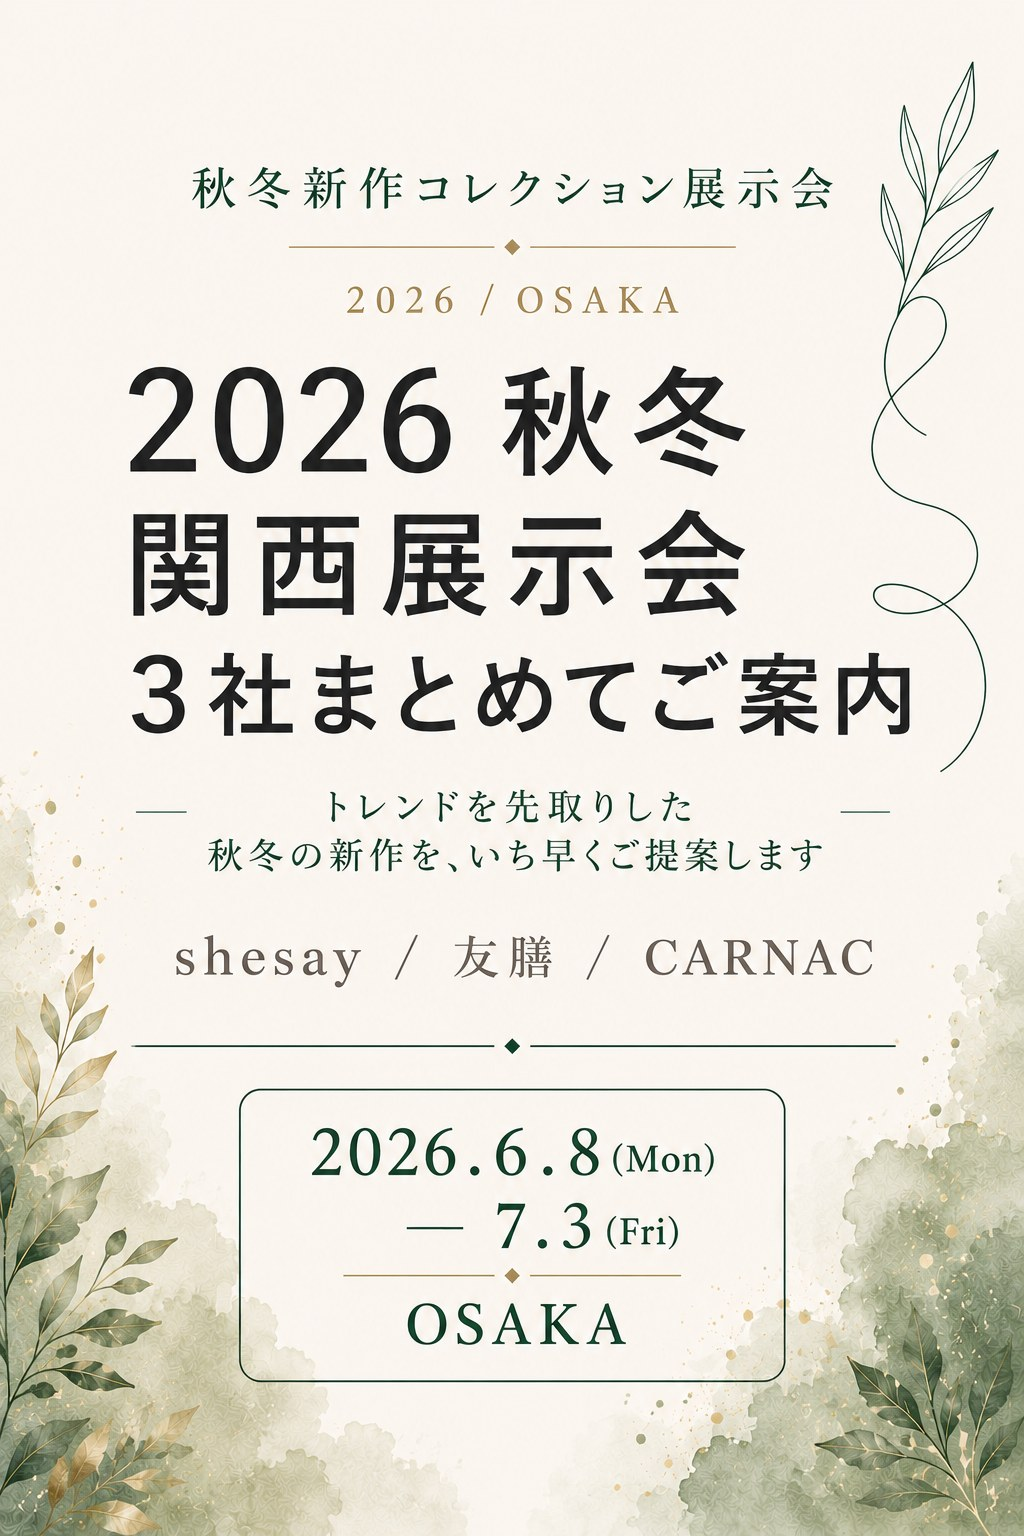
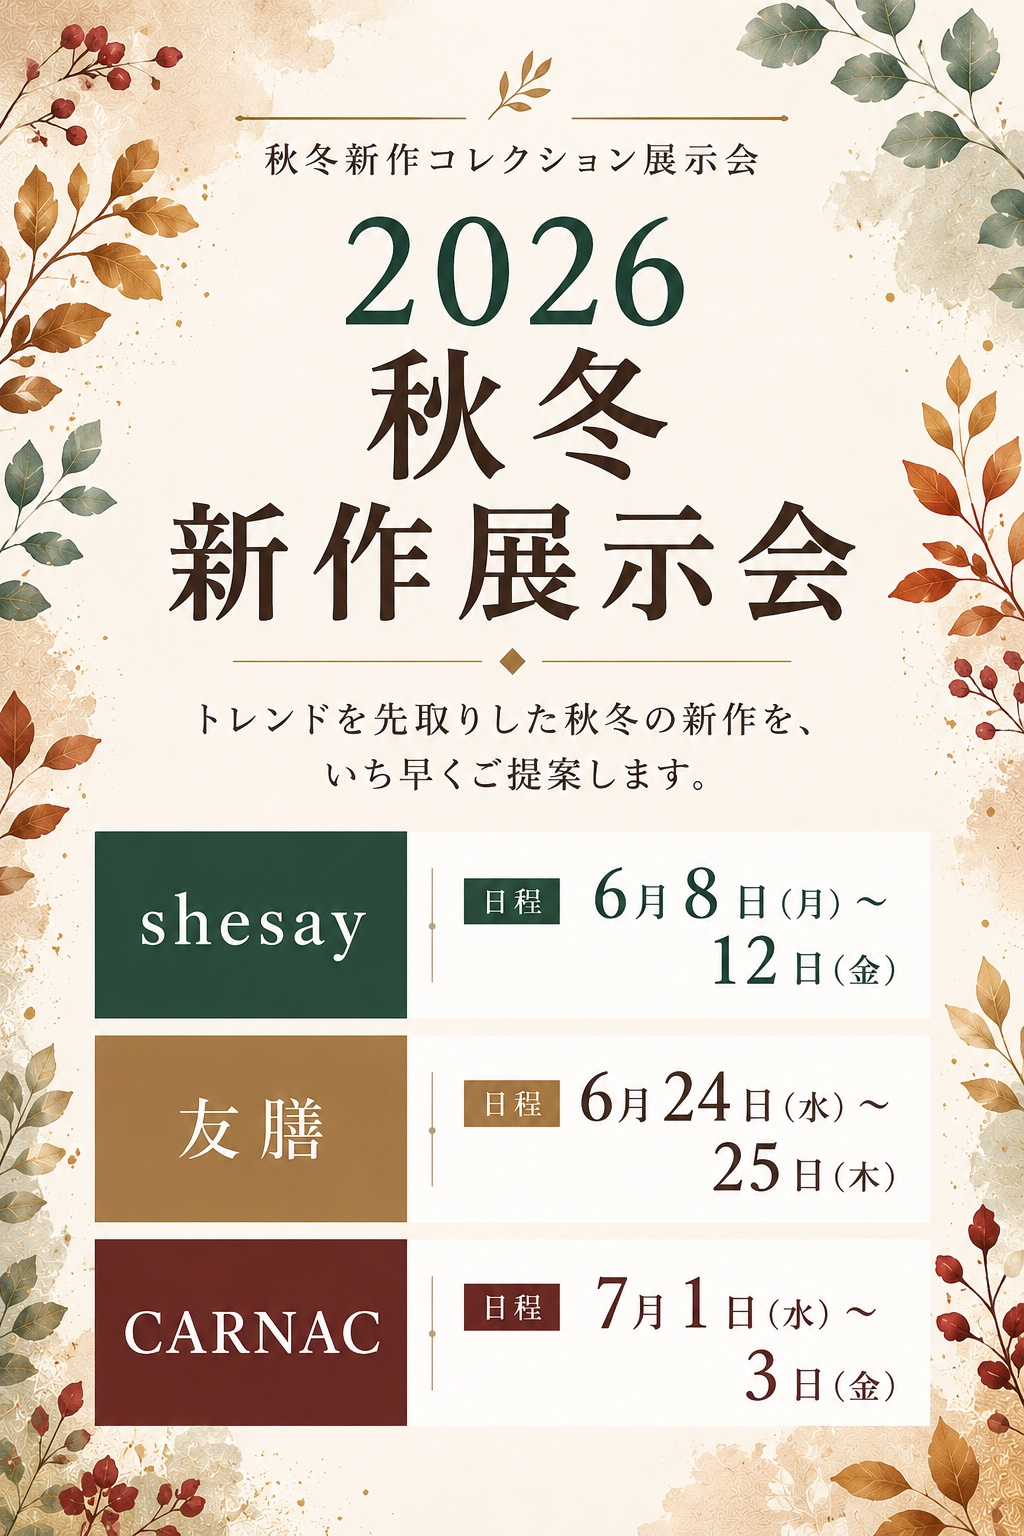
ヒーロー画像差し替え + 「関西展示会」→「大阪会場」一括変更 + recv-badge アニメ強化
- hero.jpg: 新版（縦長クリーム調・3 社日程表 1024x1536）
- 文中の「関西展示会」表記をすべて「大阪会場」に統一（タイトル/alt/リード/ナビカード/各社見出し）
- recv-badge: scale + 外側リング pulse 追加（控えめだが視認性向上、prefers-reduced-motion 対応）

diff --git a/index.html b/index.html
@@ -3,7 +3,7 @@
 <head>
 <meta charset="UTF-8">
 <meta name="viewport" content="width=device-width, initial-scale=1.0">
-<title>2026 秋冬 関西展示会 3 社まとめてご案内（shesay／友膳／CARNAC）- 神戸リボン</title>
+<title>2026 秋冬 新作展示会 大阪会場 3 社まとめてご案内（shesay／友膳／CARNAC）- 神戸リボン</title>
 <style>
   body {
     margin: 0;
@@ -257,23 +257,34 @@
     font-size: 14px;
     line-height: 1.7;
   }
-  /* 「合わせてご覧ください」カード内の「申込まだ間に合う」バッジ */
+  /* 「合わせてご覧ください」カード内の「申込まだ間に合う」バッジ
+     控えめだが視線を捉える: 1) ふんわり拡大縮小 2) 光が外へ広がるリング 3) 微小グラデーション */
   .recv-badge {
     display: inline-block;
     margin: 4px 0 2px;
-    padding: 4px 10px;
-    background: #e6a700;
+    padding: 5px 12px;
+    background: linear-gradient(135deg, #e6a700 0%, #f0b220 100%);
     color: #fff;
     font-size: 12px;
     font-weight: bold;
     letter-spacing: 0.05em;
     border-radius: 3px;
     box-shadow: 0 1px 3px rgba(230,167,0,0.4);
-    animation: recv-pulse 2s ease-in-out infinite;
+    transform-origin: center;
+    animation: recv-pulse 2.4s ease-in-out infinite;
   }
   @keyframes recv-pulse {
-    0%, 100% { box-shadow: 0 1px 3px rgba(230,167,0,0.4); }
-    50%      { box-shadow: 0 2px 10px rgba(230,167,0,0.7); }
+    0%, 100% {
+      transform: scale(1);
+      box-shadow: 0 1px 3px rgba(230,167,0,0.4), 0 0 0 0 rgba(230,167,0,0.45);
+    }
+    50% {
+      transform: scale(1.035);
+      box-shadow: 0 2px 8px rgba(230,167,0,0.55), 0 0 0 8px rgba(230,167,0,0);
+    }
+  }
+  @media (prefers-reduced-motion: reduce) {
+    .recv-badge { animation: none; }
   }
 </style>
 </head>
@@ -282,12 +293,12 @@
 
 <!-- ===== ヘッダー（画像／縦長） ===== -->
 <div style="margin:0.5em 0 1.5em; text-align:center;">
-  <img src="hero.jpg" alt="秋冬新作コレクション展示会 2026 / OSAKA  2026 秋冬 関西展示会 3 社まとめてご案内  トレンドを先取りした秋冬の新作を、いち早くご提案します  shesay／友膳／CARNAC  2026年6月8日(月)〜7月3日(金)  大阪" style="display:inline-block; width:auto; max-width:100%; max-height:640px; height:auto; border-radius:8px;">
+  <img src="hero.jpg" alt="秋冬新作コレクション展示会 2026 秋冬新作展示会  トレンドを先取りした秋冬の新作を、いち早くご提案します  shesay 日程 6月8日(月)〜12日(金)  友膳 日程 6月24日(水)〜25日(木)  CARNAC 日程 7月1日(水)〜3日(金)" style="display:inline-block; width:auto; max-width:100%; max-height:640px; height:auto; border-radius:8px;">
 </div>
 
 <!-- ===== リード ===== -->
 <p style="line-height:2.0; margin-bottom:1.6em; font-size:16px;">
-2026 年 6 月〜7 月にかけて、神戸リボンお取り扱いメーカー <strong>3 社の 2026 秋冬 関西展示会</strong> が大阪で連続開催されます。<br>
+2026 年 6 月〜7 月にかけて、神戸リボンお取り扱いメーカー <strong>3 社の 2026 秋冬 新作展示会 大阪会場</strong> が連続開催されます。<br>
 <strong>トレンドを先取りした秋冬の新作</strong> をいち早くご覧いただける機会です。秋冬ディスプレイ・新作仕入れ・ギフト企画のヒント探しに、ぜひお揃いでご来場ください。各社、<strong>事前 WEB 予約制</strong> です。
 </p>
 
@@ -304,17 +315,17 @@
 <div class="nav-grid">
   <a href="#shesay" class="nav-card">
     <span class="badge">6/8 - 6/12</span>
-    <div class="name">shesay 2026 秋冬 関西展示会</div>
+    <div class="name">shesay 2026 秋冬 大阪会場</div>
     <div class="meta">服飾＋雑貨 ／ 大阪本社（船場センタービル）</div>
   </a>
   <a href="#youzen" class="nav-card">
     <span class="badge">6/24 - 6/25</span>
-    <div class="name">友膳 2026 秋冬 関西展示会</div>
+    <div class="name">友膳 2026 秋冬 大阪会場</div>
     <div class="meta">ガーデン雑貨・生活雑貨 ／ OMMビル G2ホール</div>
   </a>
   <a href="#carnac" class="nav-card">
     <span class="badge">7/1 - 7/3</span>
-    <div class="name">CARNAC 2026 秋冬 関西展示会</div>
+    <div class="name">CARNAC 2026 秋冬 大阪会場</div>
     <div class="meta">ガーデン雑貨・植木鉢 ／ OMMビル E2ホール</div>
   </a>
 </div>
@@ -322,11 +333,11 @@
 <!-- ===========================
      ① shesay（志成販売）
      =========================== -->
-<h3 class="section-title" id="shesay">① shesay（志成販売）2026 秋冬 関西展示会</h3>
+<h3 class="section-title" id="shesay">① shesay（志成販売）2026 秋冬 大阪会場</h3>
 
 <div class="supplier-block">
   <div class="lead">SHESAY / SHISEI HANBAI</div>
-  <h4>2026 秋冬 関西展示会（服飾＋雑貨／大阪本社）</h4>
+  <h4>2026 秋冬 大阪会場（服飾＋雑貨／大阪本社）</h4>
   <img src="catalog-thumbs/shesay-naikenkai.jpg" alt="shesay 2026 秋冬展示会 出展アイテム一例 — ニット手袋・ファブリック・キャップ・ニットボレロ・スノードーム・くるみ割り人形オーナメントなど" class="supplier-image" loading="lazy">
   <div class="supplier-image-caption">画像出典: shesay 公式 2026 秋冬展示会バナー</div>
   <p class="intro">
@@ -365,11 +376,11 @@
 <!-- ===========================
      ② 株式会社 友膳（you-zen）
      =========================== -->
-<h3 class="section-title" id="youzen">② 株式会社 友膳（you-zen）2026 秋冬 関西展示会</h3>
+<h3 class="section-title" id="youzen">② 株式会社 友膳（you-zen）2026 秋冬 大阪会場</h3>
 
 <div class="supplier-block">
   <div class="lead">YOU-ZEN</div>
-  <h4>2026 秋冬 関西展示会（ガーデン雑貨／OMM 大阪会場）</h4>
+  <h4>2026 秋冬 大阪会場（ガーデン雑貨／OMM ビル G2 ホール）</h4>
   <img src="catalog-thumbs/youzen-catalog.jpg" alt="株式会社 友膳 NOUVELLE SÉLECTION SPRING &amp; SUMMER 2026 カタログ表紙" class="supplier-image portrait" loading="lazy">
   <div class="supplier-image-caption">画像出典: 株式会社 友膳 NOUVELLE SÉLECTION SS 2026 カタログ</div>
   <p class="intro">
@@ -409,11 +420,11 @@
 <!-- ===========================
      ③ CARNAC（カルナック）
      =========================== -->
-<h3 class="section-title" id="carnac">③ CARNAC（カルナック）2026 秋冬 関西展示会</h3>
+<h3 class="section-title" id="carnac">③ CARNAC（カルナック）2026 秋冬 大阪会場</h3>
 
 <div class="supplier-block">
   <div class="lead">CARNAC</div>
-  <h4>2026 秋冬 関西展示会（ガーデン雑貨／OMM 大阪会場）</h4>
+  <h4>2026 秋冬 大阪会場（ガーデン雑貨／OMM ビル E2 ホール）</h4>
   <img src="catalog-thumbs/carnac-catalog.jpg" alt="CARNAC 2026 REGULAR CATALOGUE vol.19 表紙" class="supplier-image portrait" loading="lazy">
   <div class="supplier-image-caption">画像出典: 株式会社カルナック 2026 REGULAR CATALOGUE vol.19</div>
   <p class="intro">